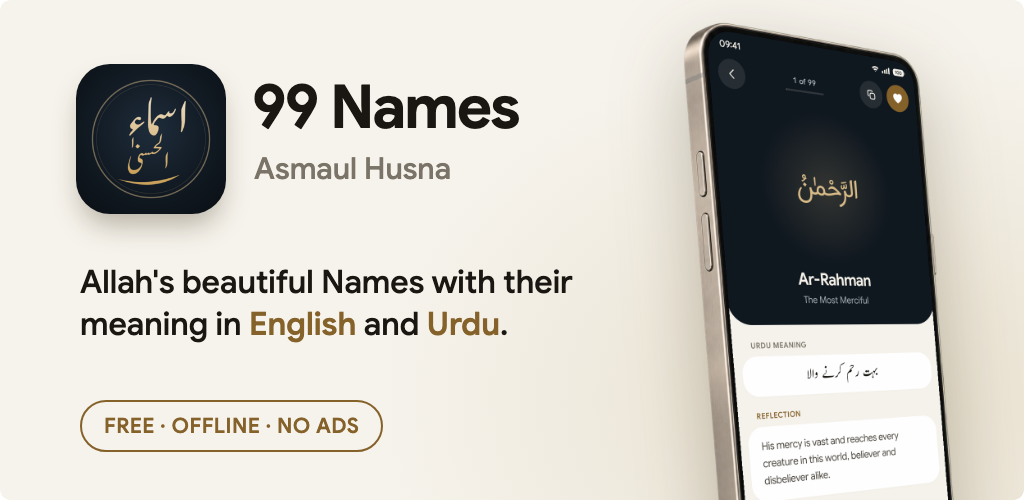
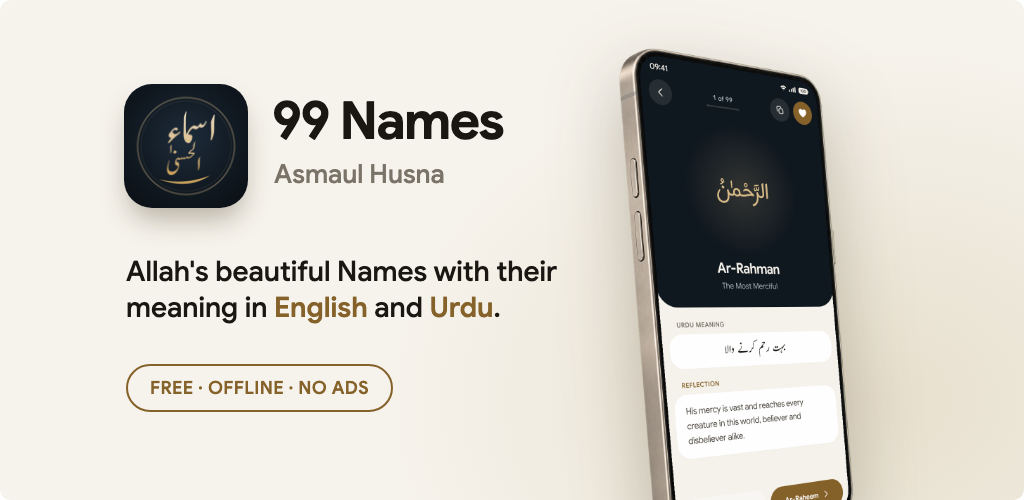
style(store): feature graphic content inside the area Play shows

diff --git a/store/listing/index.html b/store/listing/index.html
@@ -56,13 +56,14 @@ body.one .shot:not(.on), body.one .fg:not(.on) { display: none; }
 /* Feature graphic 1024x500 */
 .fg { position: relative; width: 1024px; height: 500px; overflow: hidden; flex: none; color: var(--title);
   background: radial-gradient(80% 120% at 85% 80%, #E7DFCD 0%, var(--stone) 60%); }
-.fg .logo { position: absolute; left: 76px; top: 64px; width: 150px; border-radius: 34px; box-shadow: 0 16px 28px -6px rgba(60,45,20,.35); }
-.fg .t1 { position: absolute; left: 252px; top: 78px; font-size: 60px; font-weight: 700; letter-spacing: -.03em; line-height: 1; }
-.fg .t2 { position: absolute; left: 254px; top: 150px; font-size: 30px; color: var(--muted); font-weight: 500; }
-.fg .t3 { position: absolute; left: 80px; top: 262px; width: 520px; font-size: 32px; line-height: 1.3; color: var(--title); font-weight: 500; }
+/* Play crops the sides on some cards (about 16:9), so everything sits well inside. */
+.fg .logo { position: absolute; left: 124px; top: 84px; width: 124px; border-radius: 28px; box-shadow: 0 16px 28px -6px rgba(60,45,20,.35); }
+.fg .t1 { position: absolute; left: 272px; top: 96px; font-size: 52px; font-weight: 700; letter-spacing: -.03em; line-height: 1; }
+.fg .t2 { position: absolute; left: 274px; top: 158px; font-size: 26px; color: var(--muted); font-weight: 500; }
+.fg .t3 { position: absolute; left: 126px; top: 254px; width: 440px; font-size: 28px; line-height: 1.3; color: var(--title); font-weight: 500; }
 .fg .t3 b { color: var(--bronze); font-weight: 600; }
-.fg .pill { position: absolute; left: 80px; top: 400px; font-size: 21px; font-weight: 600; letter-spacing: .02em; padding: 11px 22px; border-radius: 99px; border: 2px solid var(--bronze); color: var(--bronze); }
-.fg .ph { width: 420px; left: 610px; top: 6px; filter: drop-shadow(0 26px 36px rgba(60,45,20,.28)); }
+.fg .pill { position: absolute; left: 126px; top: 364px; font-size: 18px; font-weight: 600; letter-spacing: .02em; padding: 11px 22px; border-radius: 99px; border: 2px solid var(--bronze); color: var(--bronze); }
+.fg .ph { width: 360px; left: 556px; top: 34px; filter: drop-shadow(0 26px 36px rgba(60,45,20,.28)); }
 </style>
 </head>
 <body>
